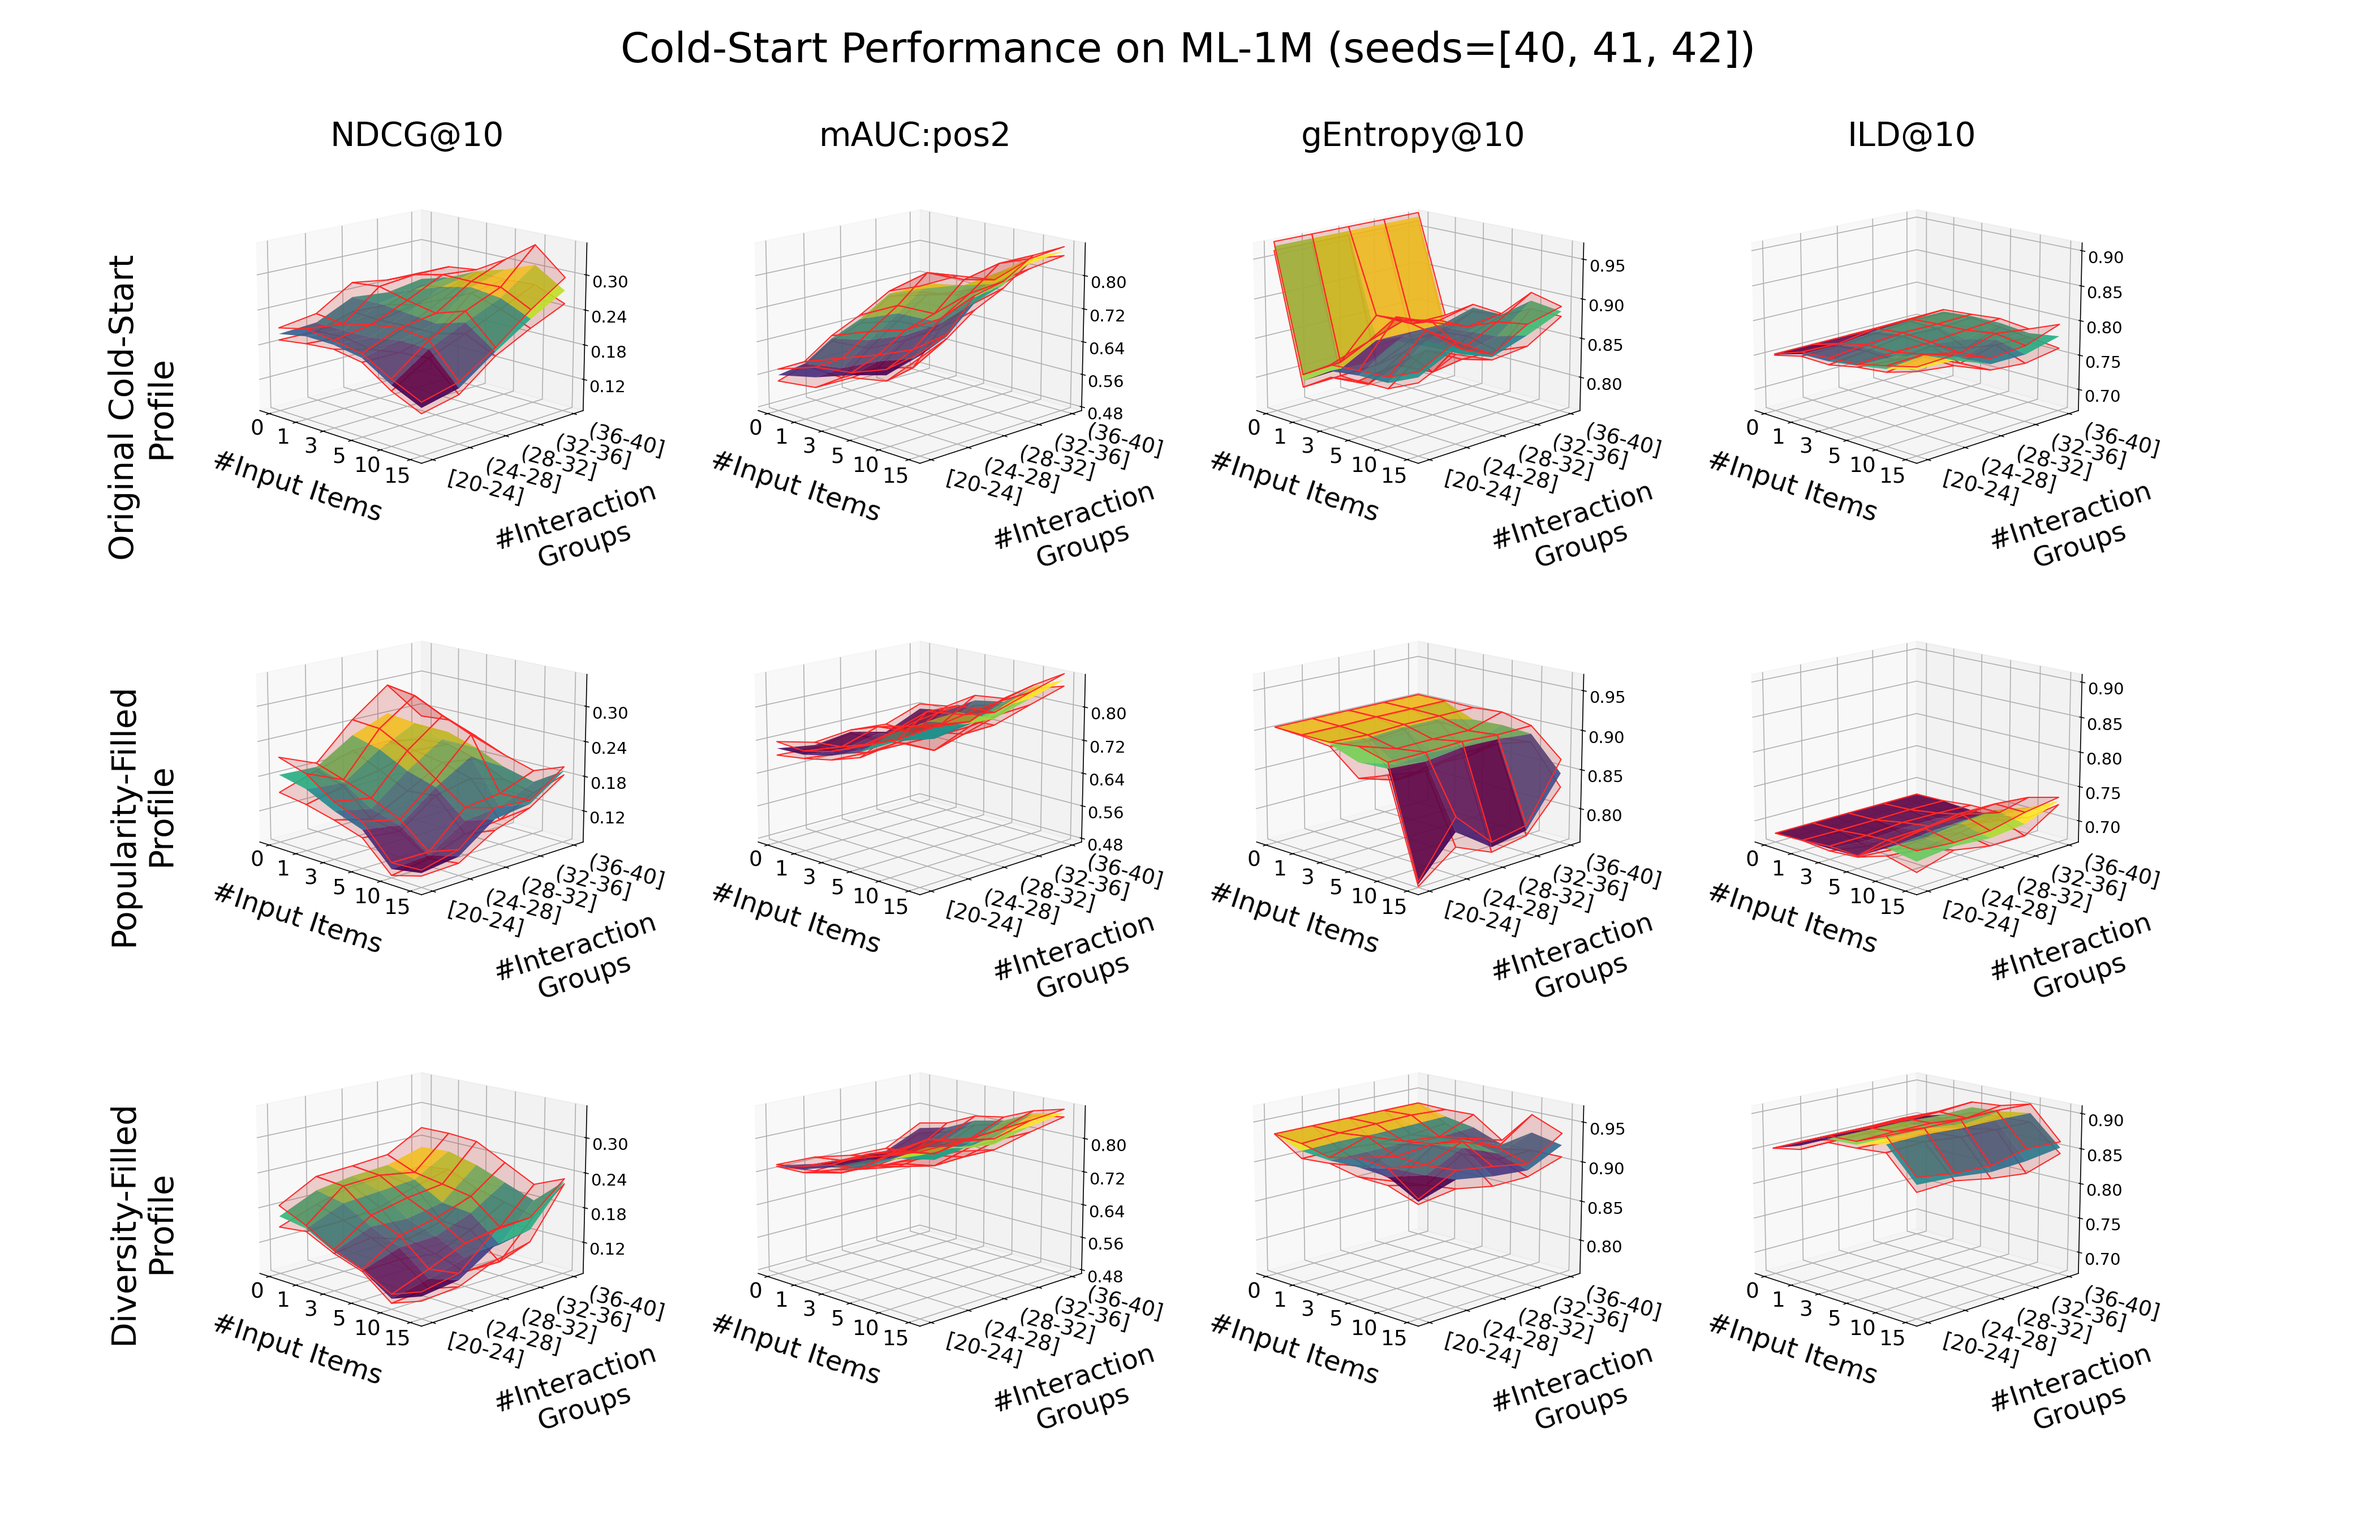
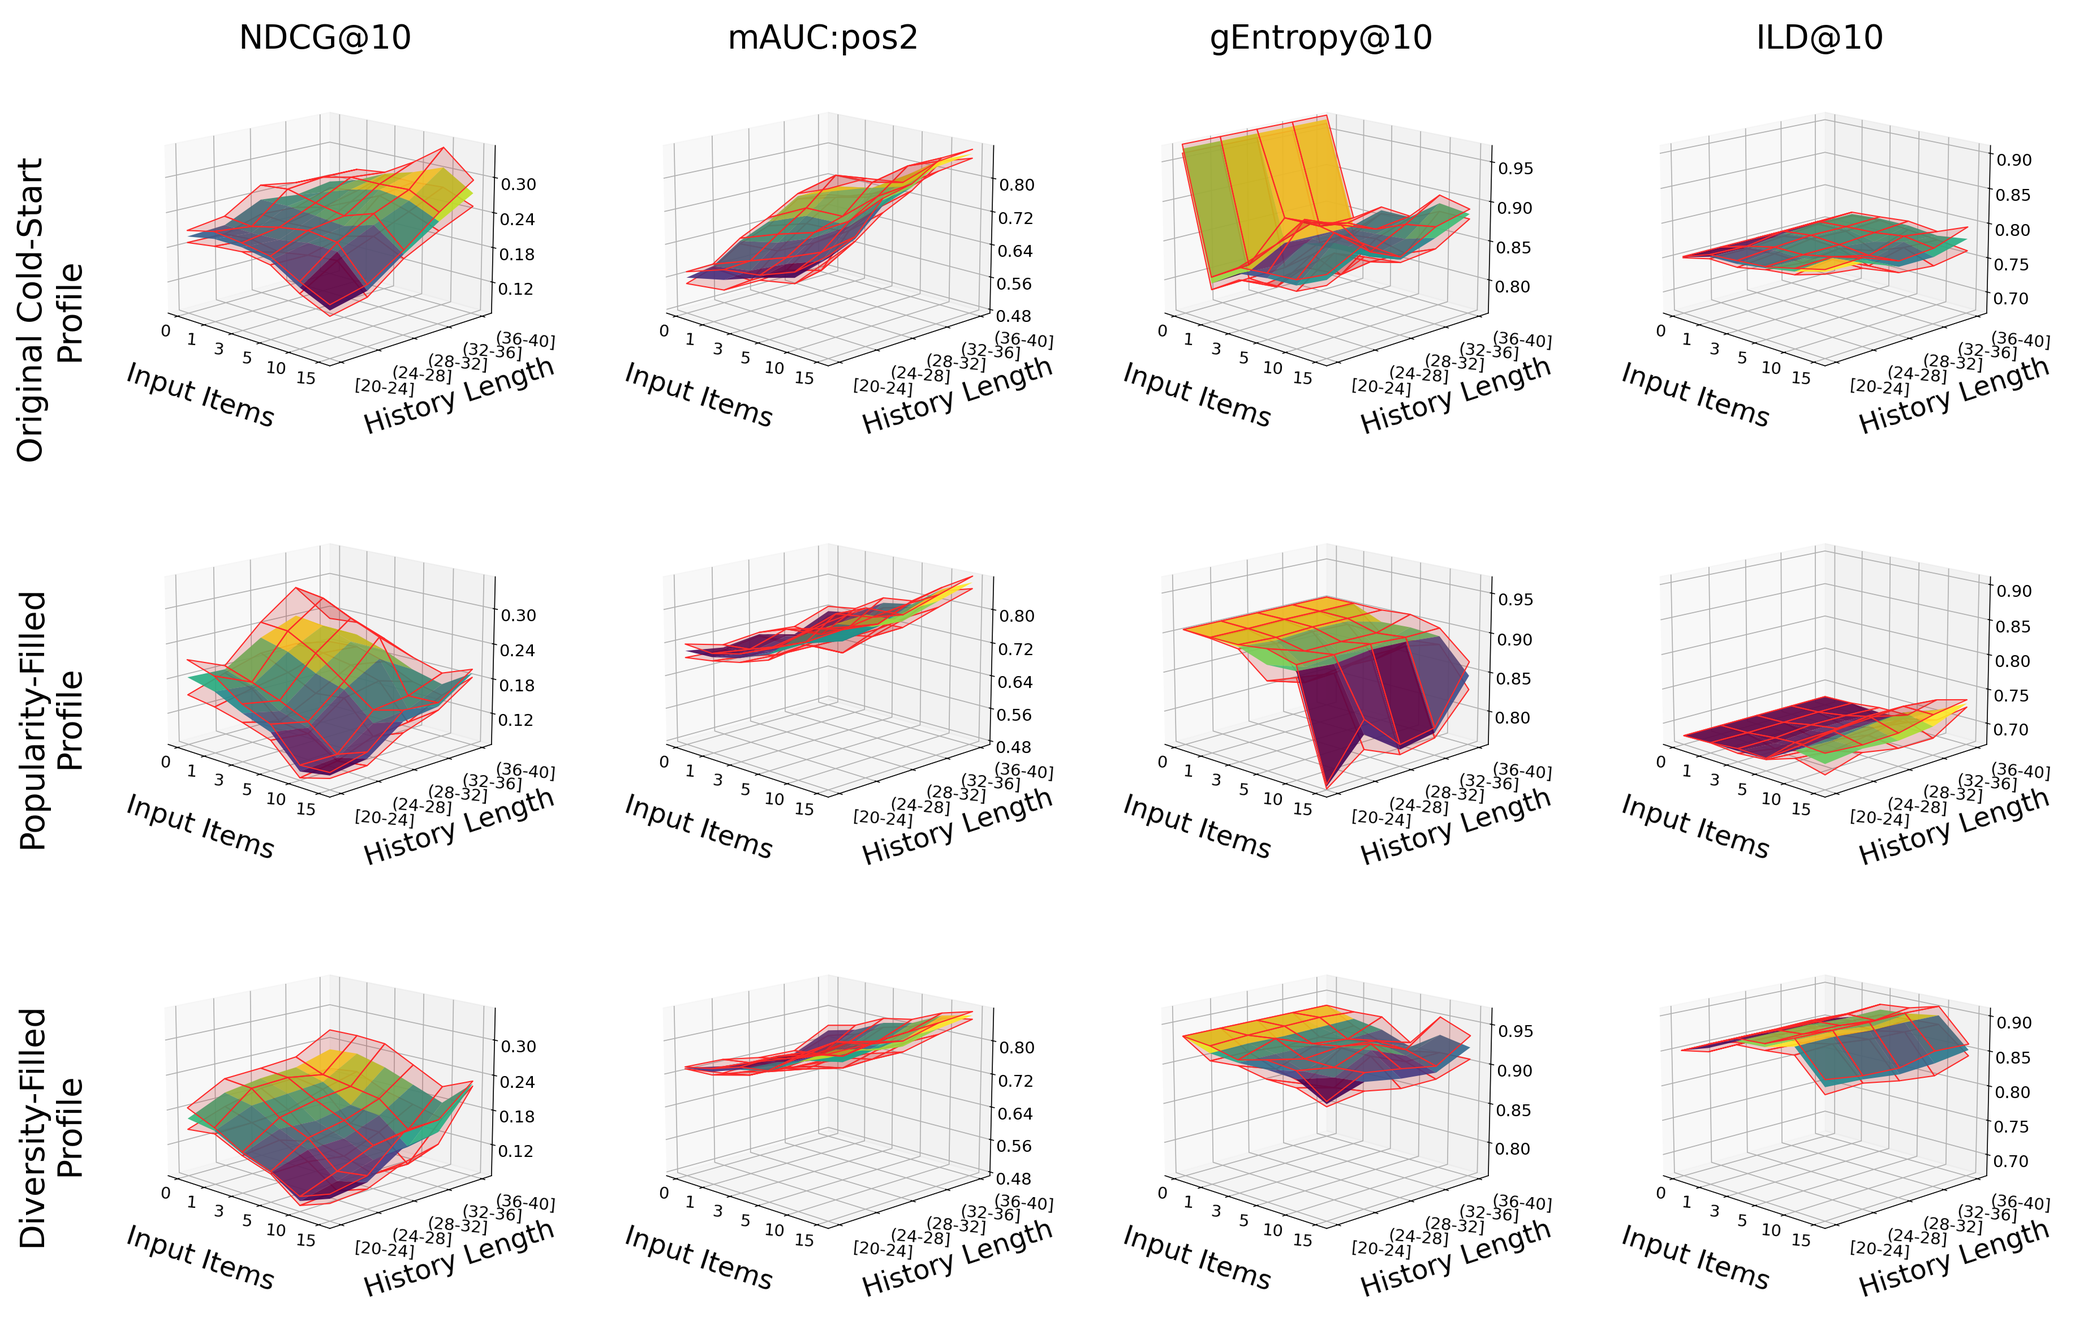
make axes labels less ugly

diff --git a/plot.py b/plot.py
@@ -48,7 +48,7 @@ def save_interaction_statistics(train_sets, val_sets, test_sets, dataset_name, s
 TITLE_SIZE=35
 SUBTITLE_SIZE=28
 AX_LABEL_SIZE=23
-AX_VAL_SIZE=18
+AX_VAL_SIZE=14
 
 def generate_combined_cold_start_plot(mean_metrics, std_metrics, stats_data, metrics_to_plot,
         results_dir, title, section_names, dataset_name, metric_lims):
@@ -146,8 +146,8 @@ def _draw_confidence_subplot(fig, ax, mean_data, std_data, stats_data, metric_to
     # MEAN surface
     ax.plot_surface(X, Y, Z_mean, cmap='viridis', alpha=0.9, antialiased=True, zorder=2)
 
-    ax.set_xlabel('#Input Items', labelpad=15, fontsize=AX_LABEL_SIZE)
-    ax.set_ylabel('#Interaction\nGroups', labelpad=45, fontsize=AX_LABEL_SIZE)
+    ax.set_xlabel('Input Items', labelpad=20, fontsize=AX_LABEL_SIZE)
+    ax.set_ylabel('History Length', labelpad=20, fontsize=AX_LABEL_SIZE)
     if row == 1: 
         print(metric_to_plot)
         if metric_to_plot == "MEAN_AUC":
@@ -165,15 +165,15 @@ def _draw_confidence_subplot(fig, ax, mean_data, std_data, stats_data, metric_to
         else: label_range = f"({min_val}-{max_val}]"
         y_tick_labels.append(f"\n{label_range}")
     ax.set_yticks(y_indices)
-    ax.set_yticklabels(y_tick_labels, fontsize=AX_VAL_SIZE, va='center', ha='left', rotation=-15)
+    ax.set_yticklabels(y_tick_labels, fontsize=AX_VAL_SIZE, va='center', ha='left', rotation=-5)
 
     # X-axis tick labels (coldness)
     x_tick_labels = [f"{''.join(filter(str.isdigit, k))}" for k in coldness_keys]
     ax.set_xticks(x_indices)
-    ax.set_xticklabels(x_tick_labels, fontsize=AX_VAL_SIZE, va='center')
+    ax.set_xticklabels(x_tick_labels, fontsize=AX_VAL_SIZE, va='center', rotation=-5)
     
     ax.zaxis.set_major_locator(MaxNLocator(nbins=5))
-    ax.tick_params(axis='z', labelsize=AX_VAL_SIZE-4)
+    ax.tick_params(axis='z', labelsize=AX_VAL_SIZE)
     ax.set_zlim(lims["min"], lims["max"])
     
     ax.view_init(elev=15, azim=-45)
